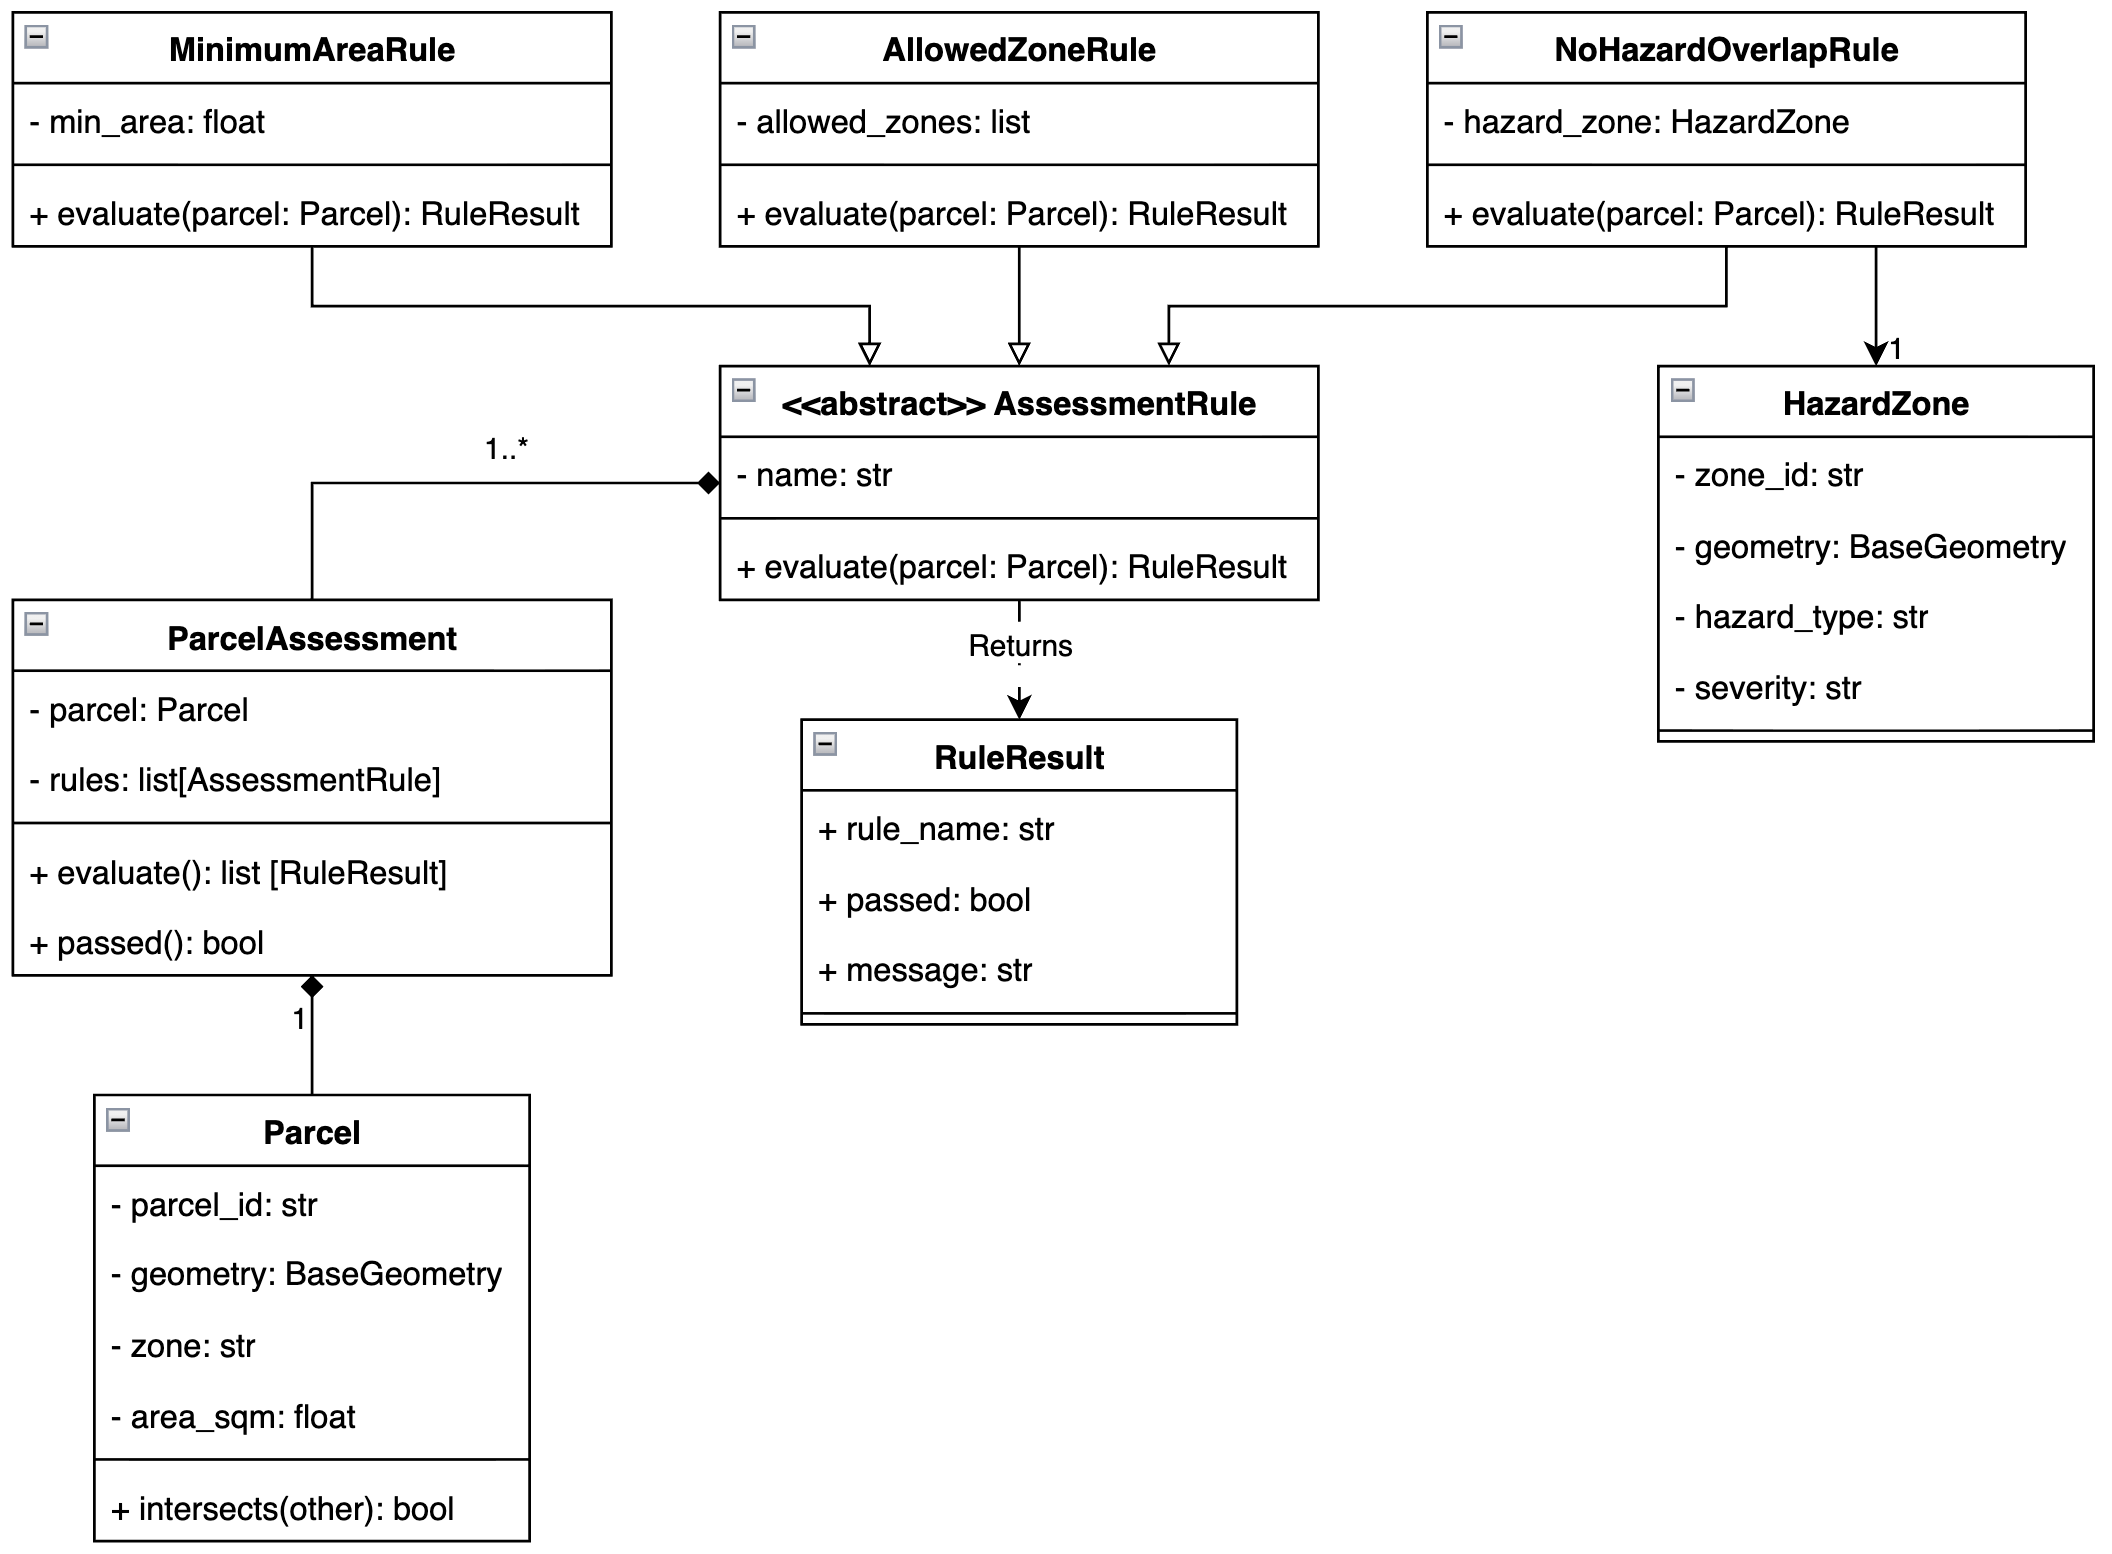
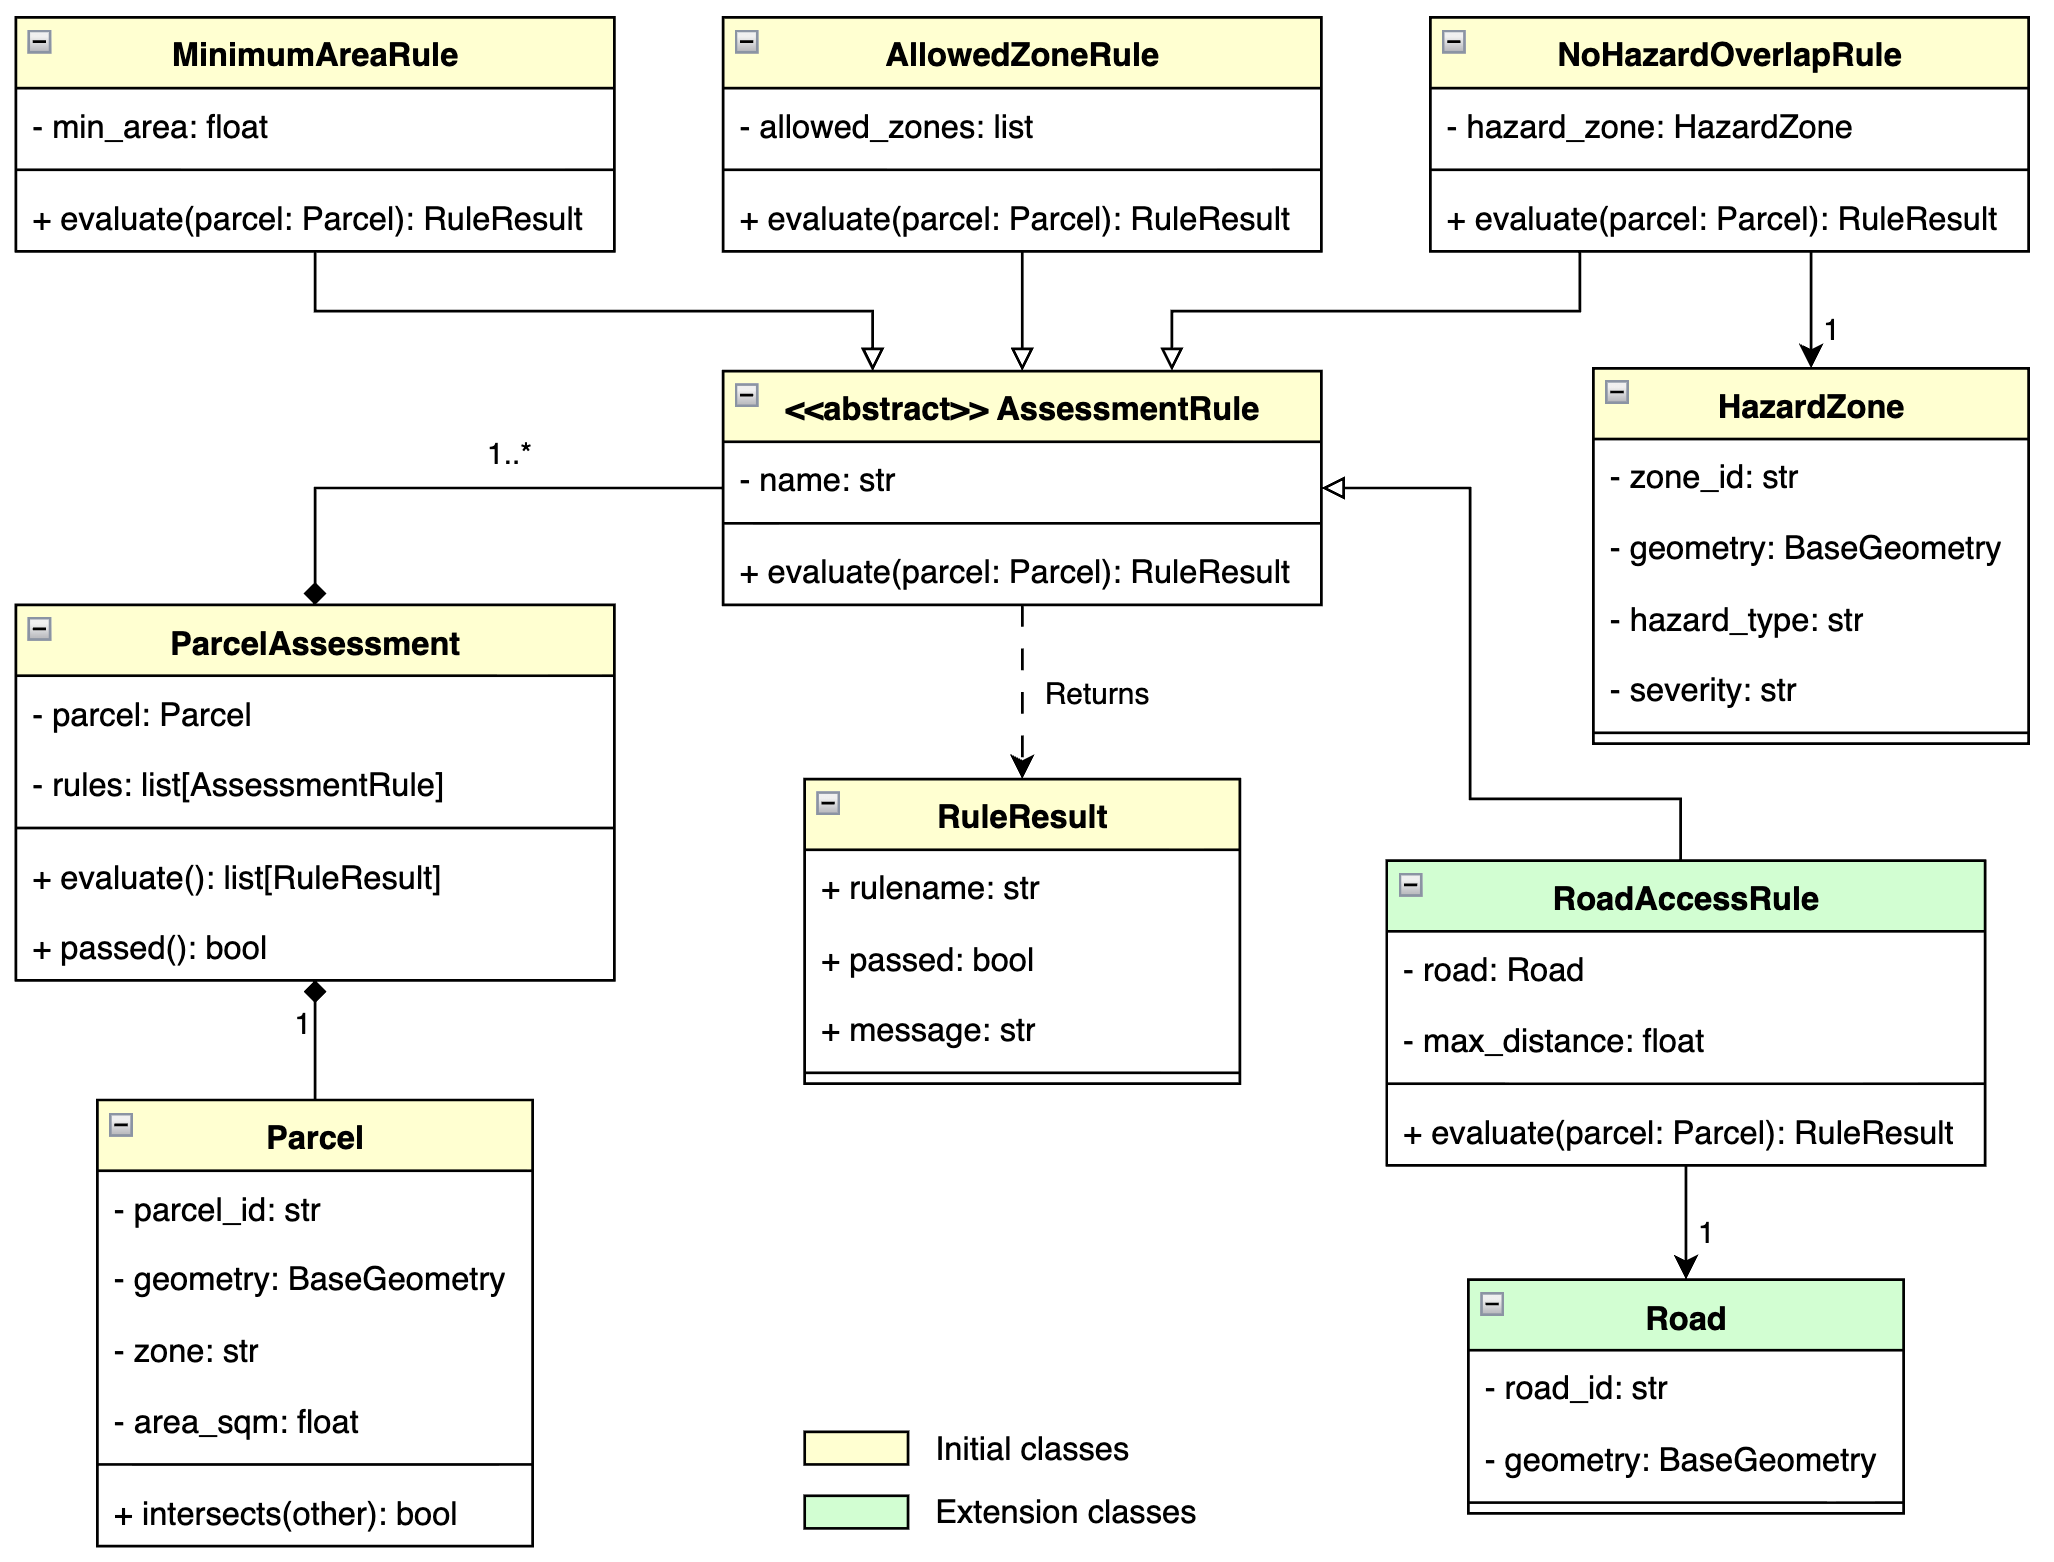
Evaluated scalablility by implementing a new spatial object Road and a rule RoadAccessRule; Added unit tests to check code logic; Added writeup in README file; Updated class diagram to reflect new classes.

diff --git a/tests/test_rules.py b/tests/test_rules.py
@@ -1,6 +1,7 @@
-from rules import MinimumAreaRule, AllowedZoneRule, NoHazardOverlapRule
-from spatial import Parcel, HazardZone
-from shapely.geometry import box
+from rules import MinimumAreaRule, AllowedZoneRule, NoHazardOverlapRule, RoadAccessRule
+from spatial import Parcel, HazardZone, Road
+from shapely.geometry import box, LineString
+import pytest
 
 TEST_MIN_AREA = 5000
 ALLOWED_ZONES = ["Residential", "Commercial"]
@@ -102,3 +103,54 @@ def test_parcel_intersects_hazard_zone_fails():
         )
     )
     assert not evaluated.passed
+
+# -----------------------
+# RoadAccessRule Tests
+# -----------------------
+
+def test_parcel_within_max_distance_threshold_passes():
+    ra = RoadAccessRule(
+        Road(
+            "R-001",
+            LineString([(25,15), (50,15)])
+        ),
+        20
+    )
+    evaluated = ra.evaluate(
+        Parcel(
+            "P-002",
+            box(0, 0, 80, 80),
+            "Residential",
+            7200
+        )
+    )
+    assert evaluated.passed
+
+def test_parcel_not_within_max_distance_threshold_passes():
+    ra = RoadAccessRule(
+        Road(
+            "R-001",
+            LineString([(25,15), (50,15)])
+        ),
+        20
+    )
+    evaluated = ra.evaluate(
+        Parcel(
+            "P-998",
+            box(0, 0, 5, 5),
+            "Residential",
+            7200
+        )
+    )
+    assert not evaluated.passed
+
+def test_road_access_negative_max_distance_threshold_raises_exception():
+    with pytest.raises(ValueError):
+        ra = RoadAccessRule(
+            Road(
+                "R-001",
+                LineString([(25,15), (50,15)])
+            ),
+            -20
+        )
+    

diff --git a/tests/test_spatial.py b/tests/test_spatial.py
@@ -1,8 +1,11 @@
 # test/test_spatial.py
 import pytest
-from spatial import Parcel, HazardZone
-from shapely.geometry import box
+from spatial import Parcel, HazardZone, Road
+from shapely.geometry import box, LineString
 
+# -----------------------
+# Parcel Tests
+# -----------------------
 
 def test_parcel_object_creation_passes():
     p = Parcel(
@@ -13,7 +16,6 @@ def test_parcel_object_creation_passes():
     )
     assert isinstance(p, Parcel)
 
-
 def test_invalid_parcel_creation_raises_exception():
     with pytest.raises((KeyError, TypeError, ValueError)):
         Parcel(
@@ -23,6 +25,9 @@ def test_invalid_parcel_creation_raises_exception():
             5000
         )
 
+# -----------------------
+# HazardZone Tests
+# -----------------------
 
 def test_hazard_zone_creation_passes():
     hz = HazardZone(
@@ -33,7 +38,6 @@ def test_hazard_zone_creation_passes():
     )
     assert isinstance(hz, HazardZone)
 
-
 def test_invalid_hazard_zone_creation_raises_exception():
     with pytest.raises((KeyError, TypeError, ValueError)):
         HazardZone(
@@ -43,4 +47,20 @@ def test_invalid_hazard_zone_creation_raises_exception():
             None
         )
 
+# -----------------------
+# Road Tests
+# -----------------------
 
+def test_valid_road_creation_passes():
+    r = Road(
+        "R-001",
+        LineString([(5,5), (50,5)])
+    )
+    assert r.road_id == "R-001"
+
+def test_invalid_road_creation_raises_exception():
+    with pytest.raises((KeyError, TypeError, ValueError)):
+        Road(
+            None,
+            LineString([(5,5), (50,5)])
+        )

diff --git a/src/rules.py b/src/rules.py
@@ -43,3 +43,20 @@ class NoHazardOverlapRule(AssessmentRule):
 
         )
         return RuleResult(self.name, passed, message)
+
+class RoadAccessRule(AssessmentRule):
+    def __init__(self, road, max_distance):
+        if float(max_distance) <= 0:
+            raise ValueError("max_distance should be a positive number.")
+        super().__init__("Road accessibility")
+        self._road = road
+        self._max_distance = max_distance
+
+    def evaluate(self, parcel):
+        passed = parcel.geometry.distance(self._road.geometry) <= self._max_distance
+        message = (
+            f"{parcel.parcel_id} is within the distance of {self._max_distance} to road {self._road.road_id}"
+            if passed
+            else f"{parcel.parcel_id} is not within the distance of {self._max_distance} to road {self._road.road_id}"
+        )
+        return RuleResult(self.name, passed, message)

diff --git a/src/run_lab5.py b/src/run_lab5.py
@@ -1,8 +1,8 @@
-from rules import MinimumAreaRule, AllowedZoneRule, NoHazardOverlapRule
-from spatial import Parcel, HazardZone
+from rules import MinimumAreaRule, AllowedZoneRule, NoHazardOverlapRule, RoadAccessRule
+from spatial import Parcel, HazardZone, Road
 from assessment import ParcelAssessment
 
-from shapely.geometry import box
+from shapely.geometry import box, LineString
 from dataclasses import asdict
 import json
 
@@ -30,10 +30,16 @@ def main():
         "High"
     )
 
+    road = Road(
+        "R-001",
+        LineString([(25,15), (50,15)])
+    )
+
     rules = [
         MinimumAreaRule(5000),
         AllowedZoneRule(["Residential", "Commercial"]),
-        NoHazardOverlapRule(hazard)
+        NoHazardOverlapRule(hazard),
+        RoadAccessRule(road, 20)
     ]
 
     assessment_a = ParcelAssessment(

diff --git a/src/spatial.py b/src/spatial.py
@@ -64,3 +64,21 @@ class HazardZone:
     @property
     def severity(self) -> float:
         return self._severity
+
+class Road:
+    def __init__(self, road_id, geometry):
+        if not road_id:
+            raise ValueError("road_id is required")
+        if not geometry.is_valid:
+            raise ValueError("Invalid geometry.")
+
+        self._road_id = road_id
+        self._geometry = geometry
+
+    @property
+    def road_id(self) -> str:
+        return self._road_id
+
+    @property
+    def geometry(self):
+        return self._geometry

diff --git a/README.md b/README.md
@@ -110,9 +110,50 @@ Below is the candidate-class table derived from the problem statement:
 # UML Diagram
 <img src="diagrams/lab5_uml.png" alt="lab5_uml" width="800">
 
+# Extension without coordinator rewrite
+In order to make the program scalable, the `ParcelAssessment` class is designed so that rule-checking logic is handled dynamically through polymorphism.
 
+A snapshot of the initial `rules` list in the runner script is shown below:
+```python
+rules = [
+    MinimumAreaRule(5000),
+    AllowedZoneRule(["Residential", "Commercial"]),
+    NoHazardOverlapRule(hazard)
+]
+```
+
+The `rules` list after adding a new rule:
+
+```python
+rules = [
+    MinimumAreaRule(5000),
+    AllowedZoneRule(["Residential", "Commercial"]),
+    NoHazardOverlapRule(hazard),
+    RoadAccessRule(road, 20)
+]
+```
+After implementing a new spatial object `Road` and a new rule `RoadAccessRule`, the list only has to be updated. No changes are needed to the internal logic of how each assessment is evaluated. The coordinator itself does not need to know which concrete rule types exist, it only need to use the shared `evaluate` interface.
+```python
+# Evaluate the parcel for all set rules
+def evaluate(self):
+    results = []
+    for rule in self._rules:
+        result = rule.evaluate(self._parcel)
+        results.append(result)
+    return results
+
+# Check if the parcel passes all rules
+def passed(self):
+    for result in self.evaluate():
+        if not result.passed:
+            return False
+    return True
+```
+By giving every rule object a common `evaluate` method, the coordinator can loop over all rules polymorphically. This avoids the alternative of a chain of nested if-else statements, which would require refactoring the coordinator's internal logic every time a new rule is added.
 
 # Reflections
+
+
 
 ## 👤 Author
 **ALLAN FRITZGERALD N. AMISTOSO** <br>
